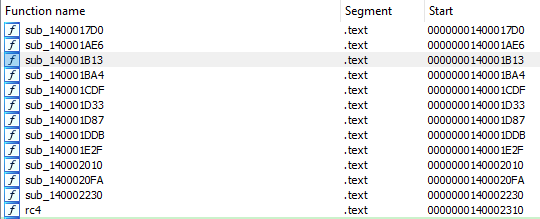
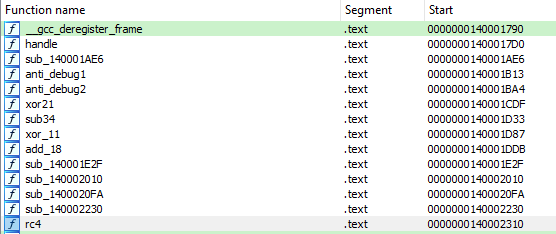
Update

Changed region(s): [[0.0, 0.0, 1.0, 1.0]]

diff --git a/content/post/Hooking with frida/index.md b/content/post/Hooking with frida/index.md
@@ -23,7 +23,7 @@ In the program,there are many funtions we want to hook.How we can find addresses
 
 You can based on offset after decompile to hooking funtions not defined in GCC,MSVC,..
 
-Here is an example. I want to hook the list of functions below to trace the flow of the program.
+Example from Line CTF 2023 finish.exe. I want to hook the list of functions below to trace the flow of the program.
 
 ![List of funtion](1.png)
 
@@ -37,39 +37,39 @@ import sys
 session = frida.attach("fishing.exe")
 script = session.create_script("""
 
-Interceptor.attach(ptr("0x7ff6a4b12310"), {
+Interceptor.attach(ptr("0x7ff67a022310"), {
     onEnter(args) {
-        console.log("rc4 :"  + hexdump(args[0]));
+        console.log("cal rc4" + args[0].toInt32());
     }
 });
 
-Interceptor.attach(ptr("0x7ff6a4b117D0"), {
+Interceptor.attach(ptr("0x7ff67a0217D0"), {
     onEnter(args) {
-        console.log("sub_1400017D0 :" + hexdump(args[0]));
+        console.log("call Handle :" + args[0].toInt32());
     }
 });
 
-Interceptor.attach(ptr("0x7ff6a4b11CDF"), {
+Interceptor.attach(ptr("0x7ff67a021CDF"), {
     onEnter(args) {
-        console.log("sub_140001CDF :" + hexdump(args[0]));
+        console.log("call xor 21 :" + args[0].toInt32());
     }
 });
 
-Interceptor.attach(ptr("0x7ff6a4b11D33"), {
+Interceptor.attach(ptr("0x7ff67a021D33"), {
     onEnter(args) {
-        console.log("sub_140001D33 :" + hexdump(args[0]));
+        console.log("call sub 34 :" + args[0].toInt32());
     }
 });
 
-Interceptor.attach(ptr("0x7ff6a4b11D87"), {
+Interceptor.attach(ptr("0x7ff67a021D87"), {
     onEnter(args) {
-        console.log("sub_140001D87 :" + hexdump(args[0]));
+        console.log("call xor 11 :" + args[0].toInt32());
     }
 });
 
-Interceptor.attach(ptr("0x7ff6a4b11DDB"), {
+Interceptor.attach(ptr("0x7ff67a021DDB"), {
     onEnter(args) {
-        console.log("sub_140001DDB :" + hexdump(args[0]));
+        console.log("call add 18 :" + args[0].toInt32());
     }
 });
 
@@ -79,6 +79,7 @@ def on_message(message, data):
 script.on('message', on_message)
 script.load()
 sys.stdin.read()
+
 ```
 
 when program loading into process.Windows Loader relies on the PE file structure to load it into the memory.  
@@ -96,6 +97,10 @@ You can see that the 'LoadAddress' is 0x7ff6a4b10000, which we need to know in o
 Hook is successful, and now we know the flow of the program and how it works.
 
 ![Find imagebase](5.png)
+
+# Flag
+
+```LINECTF{e255cda25f1a8a634b31458d2ec405b6}```
 
 ## Resources
 https://www.ired.team/miscellaneous-reversing-forensics/windows-kernel-internals/instrumenting-windows-apis-with-frida
